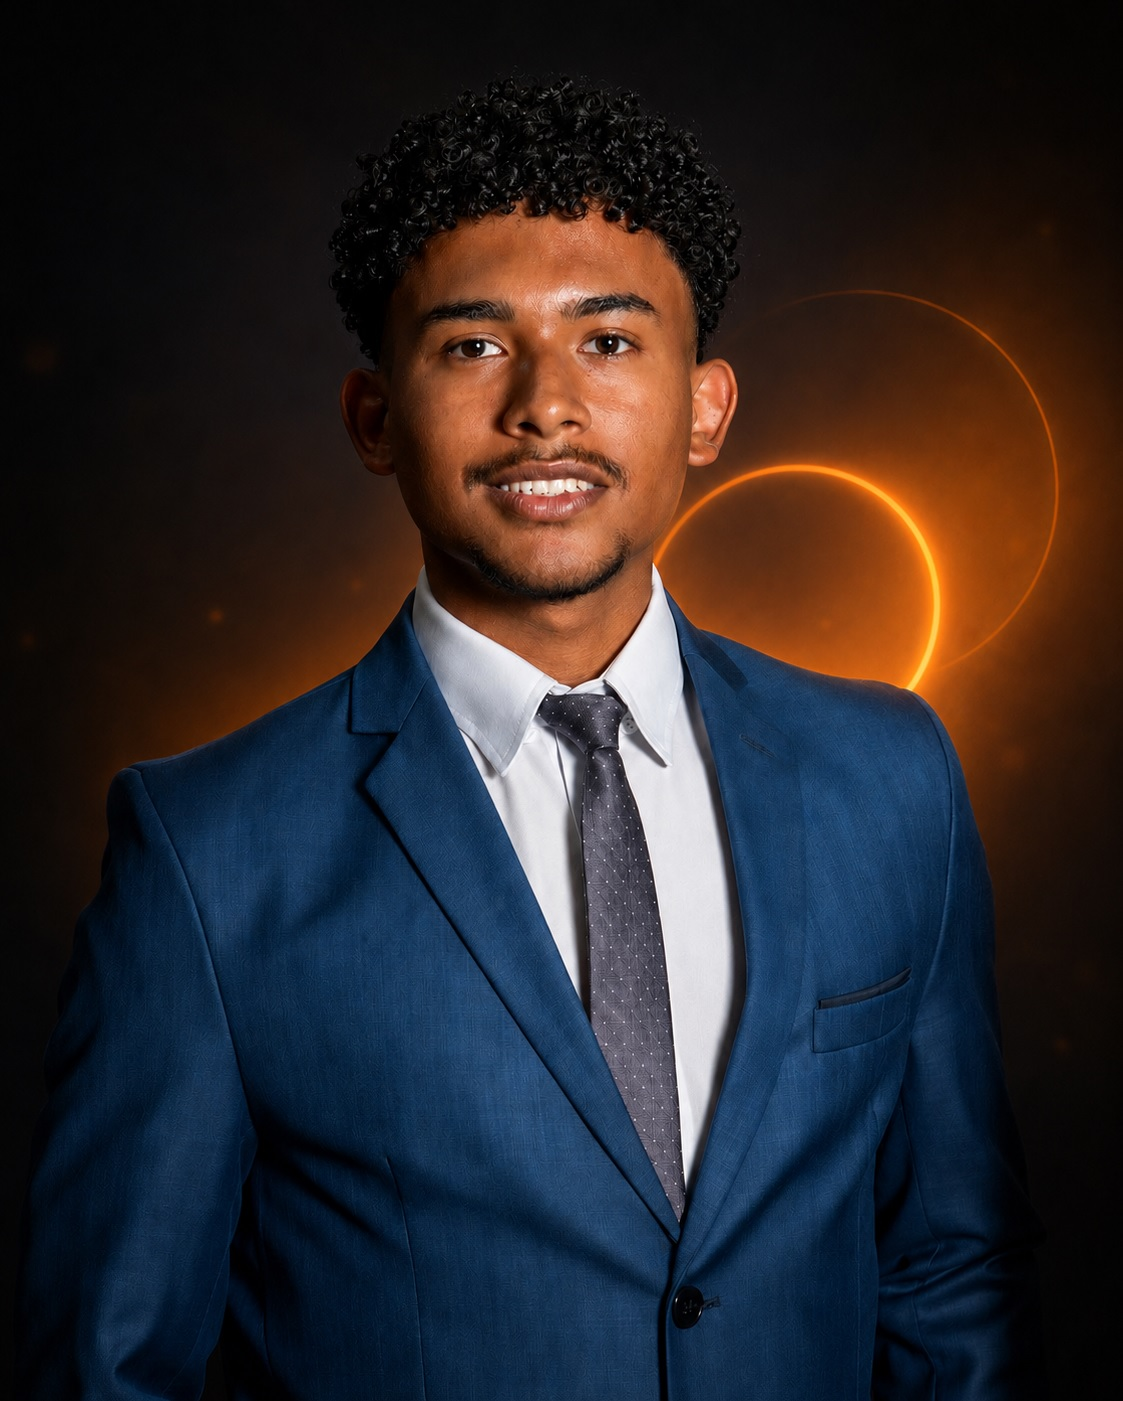
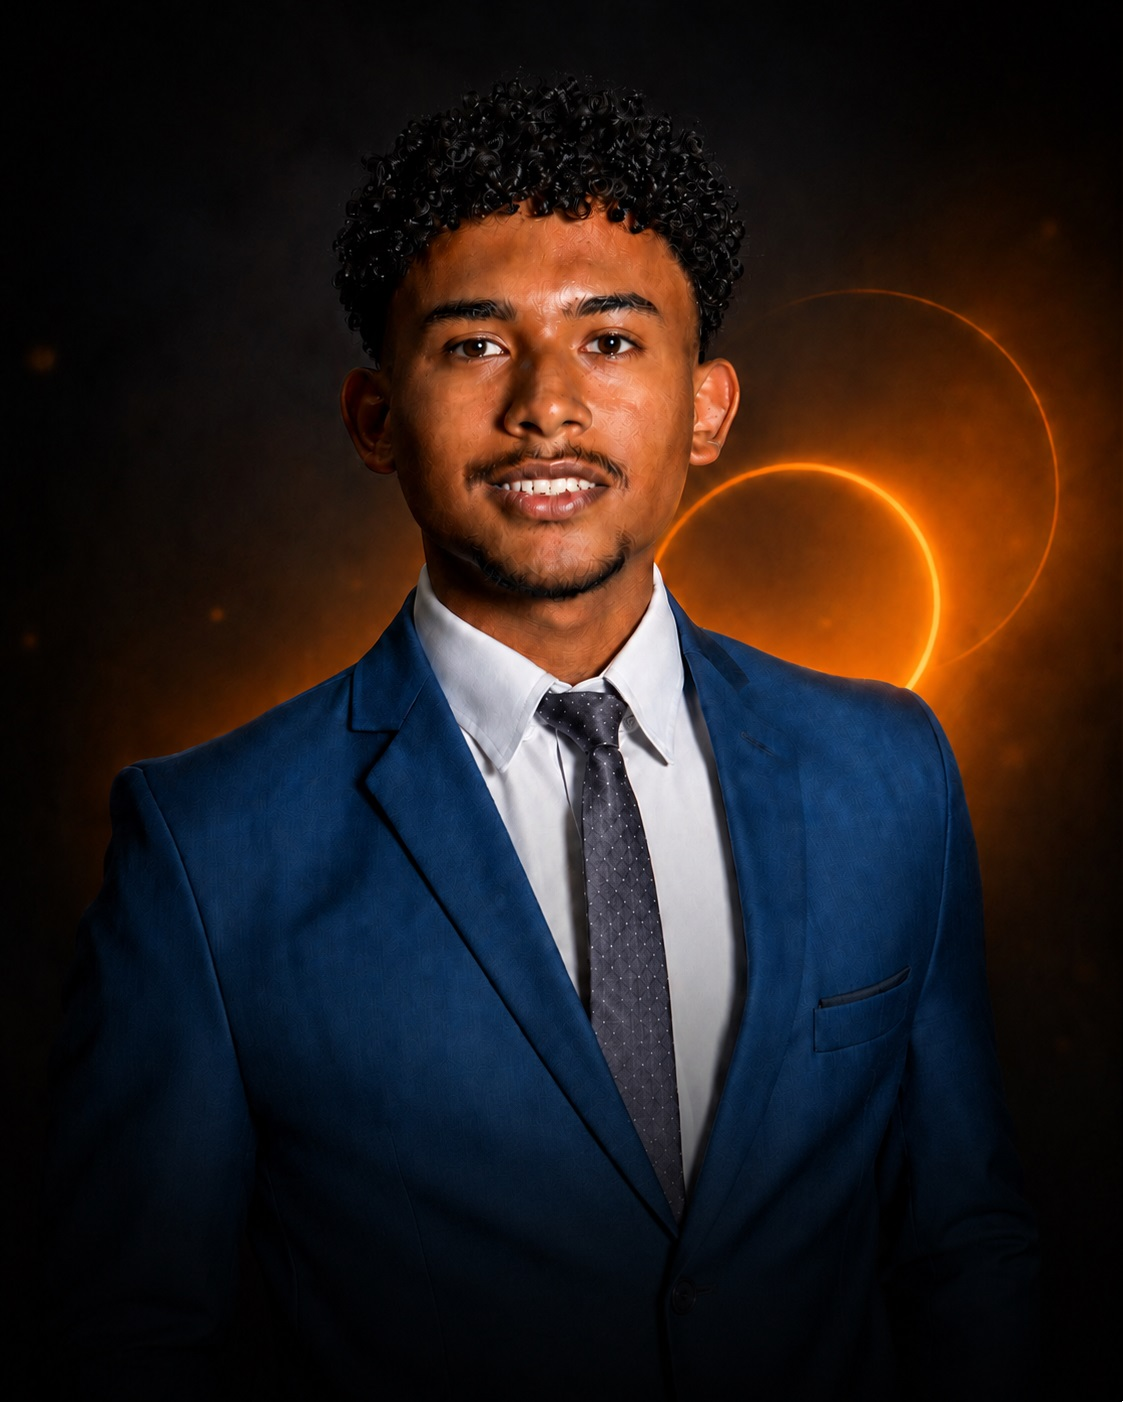
feito

diff --git a/css/portfolio.css b/css/portfolio.css
@@ -5604,7 +5604,7 @@ img {
     grid-row: 2 !important;
 
     display: block !important;
-    margin-top: 8px !important;
+    margin-top: 25px !important;
 
     color: rgba(255,255,255,.50) !important;
     font-size: 6.4px !important;
@@ -5641,3 +5641,280 @@ img {
     margin-top: 6px !important;
   }
 }
+
+@media (max-width: 720px) {
+  .hero-badges {
+    width: 100% !important;          /* diminui a largura total dos 3 cards */
+    max-width: 390px !important;    /* controla o tamanho máximo */
+    grid-template-columns: repeat(3, 1fr) !important;
+    gap: 7px !important;
+    margin: 8px 0 0 !important;
+  }
+
+  .hero-badge {
+    height: 108px !important;        /* diminui a altura */
+    min-height: 66px !important;
+    padding: 13px 9px !important;    /* diminui o espaço interno */
+    border-radius: 9px !important;
+
+    grid-template-columns: 28px 1fr !important;
+    column-gap: 6px !important;
+  }
+
+  .hero-badge-icon {
+    width: 28px !important;
+    height: 28px !important;
+  }
+
+  .hero-badge strong {
+    font-size: 7.6px !important;
+    line-height: 1.05 !important;
+  }
+
+  .hero-badge > span {
+    font-size: 6px !important;
+    line-height: 1.1 !important;
+    margin-top: 6px !important;
+  }
+}
+
+@media (max-width: 720px) {
+  .hero-badges {
+    width: 100% !important;
+    max-width: none !important;
+
+    display: grid !important;
+    grid-template-columns: repeat(3, minmax(0, 1fr)) !important;
+    gap: 8px !important;
+
+    margin-left: 0 !important;
+    margin-right: 0 !important;
+    margin-top: 14px !important;
+  }
+
+  .hero-badge {
+    width: 100% !important;
+  }
+}
+
+@media (max-width: 720px) {
+  .hero-badges {
+    width: calc(100vw - 88px) !important; /* distância total das laterais */
+    max-width: none !important;
+
+    display: grid !important;
+    grid-template-columns: repeat(3, minmax(0, 1fr)) !important;
+    gap: 8px !important;
+
+    margin: 14px auto 0 auto !important; /* centraliza esquerda/direita */
+  }
+}
+
+@media (max-width: 720px) {
+  .hero .eyebrow,
+  .hero-title,
+  .hero-sub,
+  .hero-actions {
+    margin-left: 22px !important;
+  }
+}
+
+@media (max-width: 720px) {
+  .hero-photo {
+    right: -30px !important; /* move a imagem para a direita */
+  }
+}
+
+/* =========================================================
+   AJUSTE FINAL — CONTEÚDO DOS CARDS HERO MOBILE
+   Mantém tamanho dos cards e ajusta só ícone/textos
+   ========================================================= */
+
+@media (max-width: 720px) {
+  /* Mantém os cards no tamanho atual, ajusta só o conteúdo interno */
+  .hero-badge {
+    display: grid !important;
+    grid-template-columns: 34px 1fr !important; /* espaço do ícone maior */
+    grid-template-rows: auto auto !important;
+    column-gap: 7px !important;
+    align-items: flex-start !important;
+  }
+
+  /* Aumenta os emojis/ícones */
+  .hero-badge-icon {
+    width: 34px !important;
+    height: 34px !important;
+    min-width: 34px !important;
+    grid-column: 1 !important;
+    grid-row: 1 / 3 !important;
+    margin-top: 0 !important;
+    object-fit: contain !important;
+  }
+
+  /* Faz o bloco de texto ocupar o espaço certo */
+  .hero-badge-text {
+    display: flex !important;
+    flex-direction: column !important;
+    justify-content: flex-start !important;
+    min-width: 0 !important;
+    grid-column: 2 !important;
+    grid-row: 1 / 3 !important;
+  }
+
+  /* Texto branco */
+  .hero-badge-text strong,
+  .hero-badge strong {
+    color: #ffffff !important;
+    font-size: 8.4px !important;
+    font-weight: 900 !important;
+    line-height: 1.05 !important;
+    letter-spacing: -0.25px !important;
+    margin: 0 !important;
+    padding: 0 !important;
+    display: block !important;
+    white-space: normal !important;
+  }
+
+  .hero-badge-text strong span,
+  .hero-badge strong span {
+    display: block !important;
+    color: #ffffff !important;
+    font-size: 8.4px !important;
+    font-weight: 900 !important;
+    line-height: 1.05 !important;
+    margin: 0 !important;
+  }
+
+  /* Texto cinza mais abaixo */
+  .hero-badge-text > span,
+  .hero-badge-desc,
+  .hero-badge > span {
+    color: rgba(255, 255, 255, .52) !important;
+    font-size: 6.1px !important;
+    font-weight: 600 !important;
+    line-height: 1.12 !important;
+    margin-top: 12px !important; /* distância entre branco e cinza */
+    display: block !important;
+  }
+}
+
+@media (max-width: 720px) {
+  /* Texto branco dos cards */
+  .hero-badge-text strong,
+  .hero-badge strong,
+  .hero-badge-text strong span,
+  .hero-badge strong span {
+    font-size: 9.2px !important;
+    line-height: 1.05 !important;
+    font-weight: 900 !important;
+  }
+
+  /* Texto cinza dos cards */
+  .hero-badge-text > span,
+  .hero-badge-desc,
+  .hero-badge > span {
+    font-size: 7.8px !important;
+    line-height: 1.15 !important;
+    font-weight: 600 !important;
+  }
+}
+
+@media (max-width: 720px) {
+  .hero-badge-text strong,
+  .hero-badge strong,
+  .hero-badge-text strong span,
+  .hero-badge strong span {
+    transform: translateY(3px) !important; /* desce as palavras brancas */
+  }
+}
+
+@media (max-width: 720px) {
+  .hero-badges {
+    margin-top: 28px !important; /* aumenta a distância dos botões */
+  }
+}
+
+@media (max-width: 720px) {
+  .hero-badge {
+    height: 94px !important;
+    min-height: 94px !important;
+  }
+}
+
+@media (max-width: 720px) {
+  .logo {
+    margin-left: 22px !important;
+  }
+}
+
+@media (max-width: 720px) {
+  /* Diminui o espaço depois dos cards da hero */
+  .hero {
+    padding-bottom: 8px !important;
+  }
+
+  /* Diminui a altura vazia da hero */
+  .hero-inner {
+    min-height: 560px !important;
+  }
+
+  /* Sobe o título PROJETOS DESENVOLVIDOS */
+  #projetos {
+    padding-top: 8px !important;
+  }
+
+  #projetos .section-head {
+    margin-top: 0 !important;
+    margin-bottom: 12px !important;
+  }
+}
+
+@media (max-width: 720px) {
+  #projetos {
+    margin-top: -180px !important; /* sobe a seção */
+    padding-top: 0 !important;
+    position: relative !important;
+    z-index: 30 !important;
+  }
+
+  #projetos .section-head {
+    margin-top: 0 !important;
+    margin-bottom: 12px !important;
+  }
+}
+
+/* =========================================================
+   ALINHAMENTO FINAL — HERO CARDS E PROJETOS NA MESMA LARGURA
+   ========================================================= */
+
+@media (max-width: 720px) {
+  .hero-badges,
+  #projetos .container {
+    width: calc(100vw - 88px) !important;
+    max-width: none !important;
+
+    margin-left: auto !important;
+    margin-right: auto !important;
+
+    padding-left: 0 !important;
+    padding-right: 0 !important;
+  }
+
+  #projetos {
+    padding-left: 0 !important;
+    padding-right: 0 !important;
+  }
+
+  #projetos .section-head,
+  #projetos .projects-grid {
+    width: 100% !important;
+    max-width: 100% !important;
+
+    margin-left: 0 !important;
+    margin-right: 0 !important;
+
+    padding-left: 0 !important;
+    padding-right: 0 !important;
+  }
+}
+
